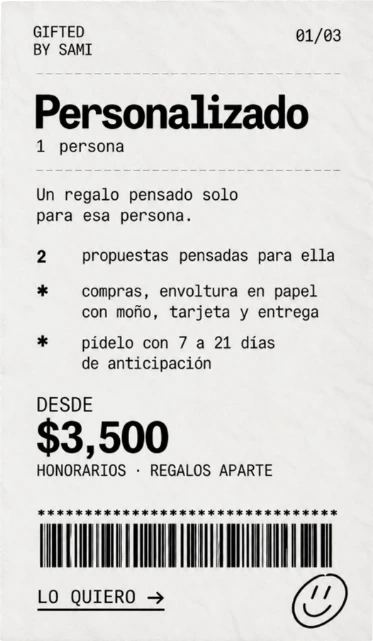
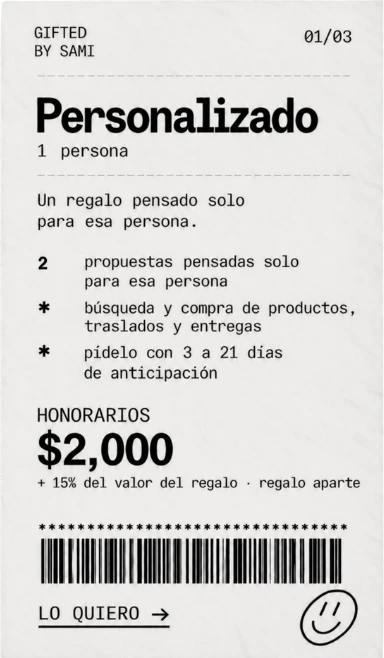
Tickets: nuevos precios y textos de Personalizado, Grupal y Sami's Picks

diff --git a/servicios.html b/servicios.html
@@ -82,9 +82,9 @@
       <h2 class="abs pick" id="pick-your-ticket" style="--x:96.5;--y:217;--w:457"><img loading="lazy" decoding="async" src="assets/img/servicios-pick-your-ticket.webp" alt="pick your ticket:"></h2>
       <!-- PRECIOS: el precio que se ve está DENTRO de las imágenes servicios-ticket-*.webp.
            También aparece en texto en aria-label y alt de cada ticket. Si cambia un precio: imagen + aria-label + alt. -->
-      <a class="abs tk" style="--x:45.5;--y:541.5;--w:379" href="https://wa.me/528116873612" data-wa="personalizado" target="_blank" rel="noopener" aria-label="Personalizado, 1 persona, desde $3,500 de honorarios. Lo quiero: escribir por WhatsApp"><img loading="lazy" decoding="async" src="assets/img/servicios-ticket-personalizado.webp" alt="Ticket Personalizado: 1 persona. Un regalo pensado solo para esa persona: 2 propuestas; compras, envoltura en papel con moño, tarjeta y entrega; pídelo con 7 a 21 días de anticipación. Desde $3,500 de honorarios, regalos aparte."></a>
-      <a class="abs tk" style="--x:477.5;--y:542;--w:377" href="https://wa.me/528116873612" data-wa="grupal" target="_blank" rel="noopener" aria-label="Grupal, desde 2 regalos, $3,000 más 35%. Lo quiero: escribir por WhatsApp"><img loading="lazy" decoding="async" src="assets/img/servicios-ticket-grupal.webp" alt="Ticket Grupal: desde 2 regalos, a la medida de tu grupo. 2 propuestas; compras, envoltura (hasta 10 regalos), tarjeta y entrega; pídelo con 14 a 30 días de anticipación. Honorarios: $3,000 más 35% de lo que gastes en regalos; regalos aparte."></a>
-      <a class="abs tk" style="--x:909;--y:542;--w:376.5" href="picks/index.html" aria-label="Sami's Picks, desde 1 pieza. Ver catálogo"><img loading="lazy" decoding="async" src="assets/img/servicios-ticket-sami-picks.webp" alt="Ticket Sami's Picks: desde 1 pieza. Ya los elegí por ti, listos para regalar: cajas de temporada y picks de todo el año; caja, tarjeta y entrega incluidas; con tu logo o por volumen desde 10 piezas. Precios en el catálogo, más IVA si requieres factura."></a>
+      <a class="abs tk" style="--x:45.5;--y:541.5;--w:379" href="https://wa.me/528116873612" data-wa="personalizado" target="_blank" rel="noopener" aria-label="Personalizado, 1 persona, $2,000 de honorarios más 15% del valor del regalo. Lo quiero: escribir por WhatsApp"><img loading="lazy" decoding="async" src="assets/img/servicios-ticket-personalizado.webp" alt="Ticket Personalizado: 1 persona. Un regalo pensado solo para esa persona: 2 propuestas pensadas solo para esa persona; búsqueda y compra de productos, traslados y entregas; pídelo con 3 a 21 días de anticipación. Honorarios: $2,000 más 15% del valor del regalo; regalo aparte."></a>
+      <a class="abs tk" style="--x:477.5;--y:542;--w:377" href="https://wa.me/528116873612" data-wa="grupal" target="_blank" rel="noopener" aria-label="Grupal, desde 2 regalos, $3,000 de honorarios más 15% del presupuesto total. Lo quiero: escribir por WhatsApp"><img loading="lazy" decoding="async" src="assets/img/servicios-ticket-grupal.webp" alt="Ticket Grupal: desde 2 regalos. A la medida de tu grupo: ni todos lo mismo, ni caja de temporada. 2 propuestas, con hasta 3 regalos distintos según cada persona; búsqueda y compra de productos, traslados y entregas; pídelo con 7 a 21 días de anticipación. Honorarios: $3,000 más 15% del presupuesto total; regalos aparte."></a>
+      <a class="abs tk" style="--x:909;--y:542;--w:376.5" href="picks/index.html" aria-label="Sami's Picks, desde 1 pieza. Ver catálogo"><img loading="lazy" decoding="async" src="assets/img/servicios-ticket-sami-picks.webp" alt="Ticket Sami's Picks: desde 1 pieza. Ya los elegí por ti, listos para regalar, para ti o para tu team: cajas de temporada y picks de todo el año; caja, tarjeta y entrega: todo incluido; productos personalizados o con tu logo. Precios en el catálogo."></a>
     </div>
   </section>
   <!-- ===== FIN: tickets ===== -->

diff --git a/docs/CAMBIOS.md b/docs/CAMBIOS.md
@@ -2,6 +2,15 @@
 
 Formato: fecha · sección · qué cambió. Lo más reciente arriba.
 
+## 2026-11-16 · Tickets: nuevos precios y textos (los 3)
+Respaldo previo: etiqueta `respaldo-2026-11-16-antes-tickets-y-textos`.
+- **Tickets (servicios.html):** imágenes nuevas recortadas de la captura de Canva que mandó Jorge, porque no hay exportaciones directas. Miden ~385 px de ancho.
+  - Personalizado: $2,000 + 15% del valor del regalo; anticipación de 3 a 21 días.
+  - Grupal: $3,000 + 15% del presupuesto total; 2 propuestas con hasta 3 regalos distintos; anticipación de 7 a 21 días.
+  - Sami's Picks: "productos personalizados o con tu logo"; ya no dice "+ IVA si requieres factura".
+- `aria-label` y `alt` de los 3 tickets con los textos nuevos.
+- Verificado: captura a 1920 px; los 3 miden igual.
+
 ## 2026-11-16 · About: foto nueva de Sami
 Respaldo previo: etiqueta `respaldo-2026-11-16-antes-foto-about`.
 - **About:** se reemplaza `about-foto-sami.webp` por la foto nueva que mandó Jorge (Sami con su hijo y el pastel).
